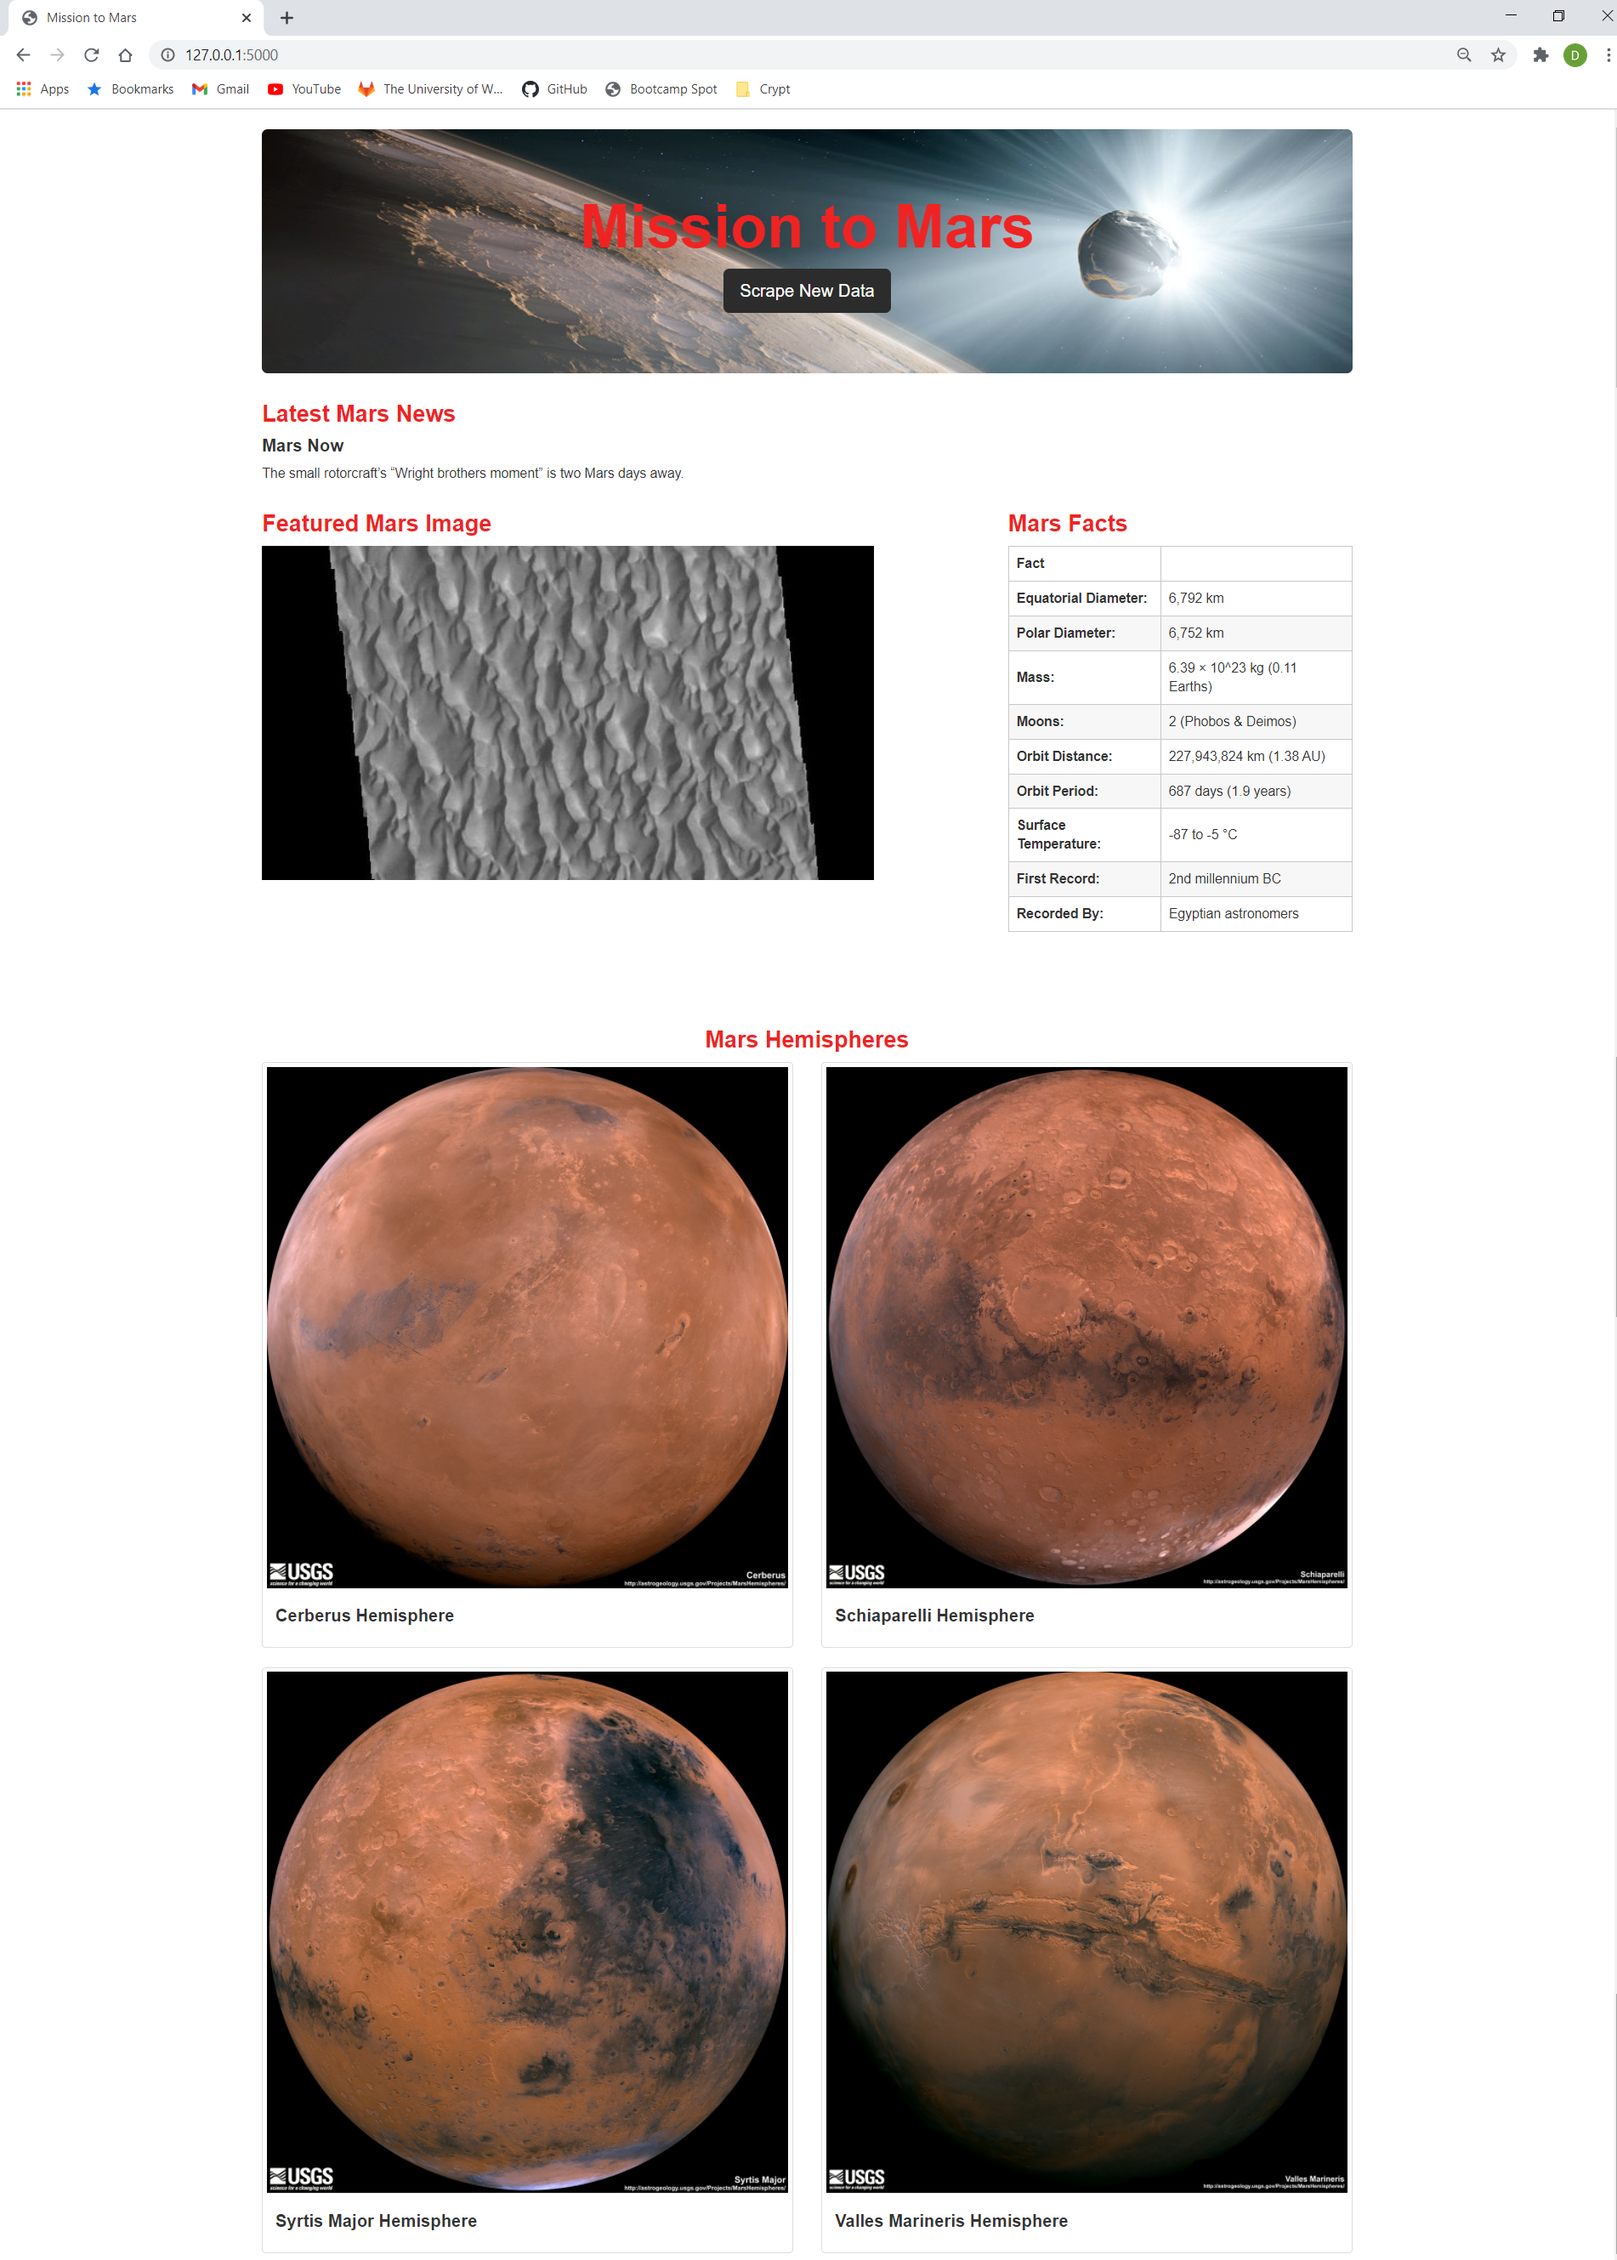
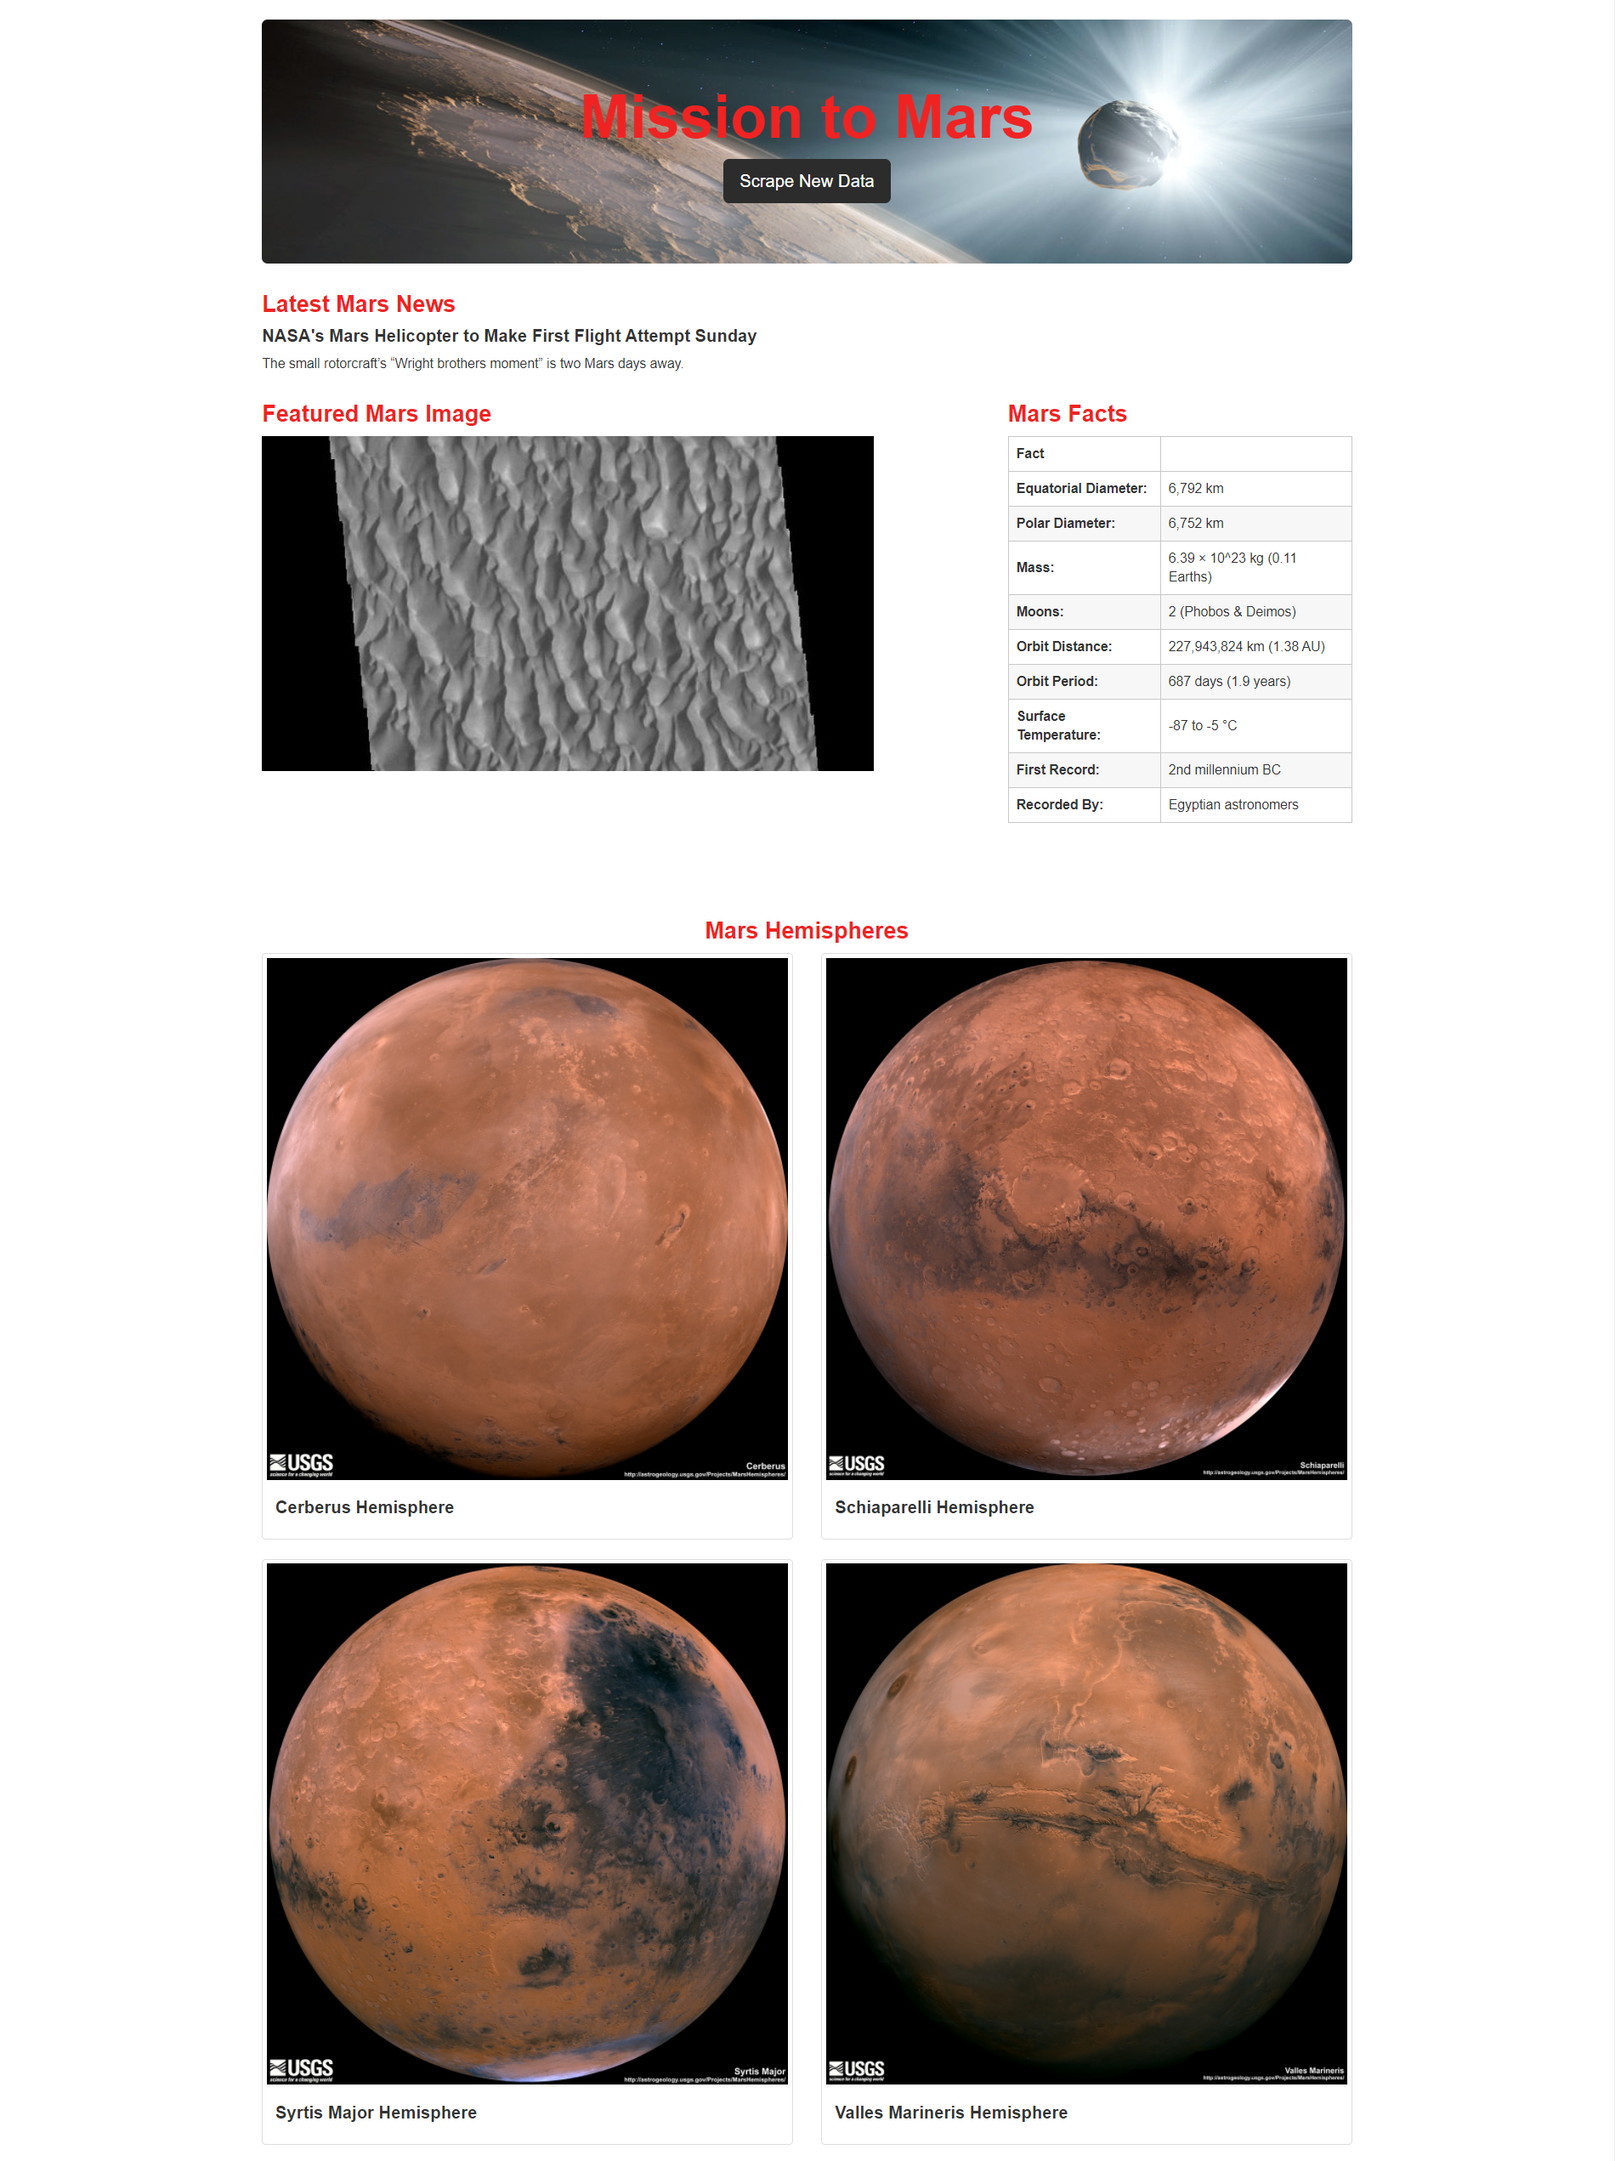
scrape not returning properly

diff --git a/Mission_to_Mars/scrape_mars.py b/Mission_to_Mars/scrape_mars.py
@@ -13,15 +13,12 @@ def scrape():
     mars_news_title, mars_news_paragraph = news(browser)
     
     results = {
-        "title": mars_news_title,
-        "paragraph": mars_news_paragraph,
-        "featured": image(browser),
-        "facts": facts(browser),
-        "hemis": hemis(browser)
-        }
-    browser.quit()
-    print(results)
-
+    "title": mars_news_title,
+    "paragraph": mars_news_paragraph,
+    "featured": image(browser),
+    "facts": facts(browser),
+    "hemis": hemis(browser)
+    }
     return results
 
 def news(browser):
@@ -31,20 +28,11 @@ def news(browser):
     html = browser.html
     news_soup = BeautifulSoup(html, 'html.parser')
 
-    news_results = news_soup.find[0]("div", class_='list_text')
-    for result in news_results:
-        mars_news_title = result.find('div',class_="content_title").text
-        mars_news_paragraph = result.find('div',class_="article_teaser_body").text
+    news_results = news_soup.find('li',class_="slide")
+    for news_result in news_results:
+        mars_news_title = news_result.find('div',class_='content_title').find('a').text
+        mars_news_paragraph = news_result.find('div',class_='article_teaser_body').text
     return mars_news_title, mars_news_paragraph
-
-    # collect the latest News Title and Paragraph Text.
-    # mars_news_title = news_soup.find_all('div',class_="content_title")[1].text
-    # mars_news_paragraph = news_soup.find_all('div',class_="article_teaser_body")[0].text
-    # # mars_news_title = mars_news_title.text
-    # # mars_news_paragraph = mars_news_paragraph.text
-    # print(mars_news_title)
-    # print(mars_news_paragraph)
-    # return mars_news_title, mars_news_paragraph
 
 def image(browser):
     # Scrape the Featured Mars Image
@@ -96,3 +84,7 @@ def hemis(browser):
         # Append the dictionary with the image url string and the hemisphere title to a list. This list will contain one dictionary for each hemisphere.
         hemis_img_urls.append(img_dict)
     return hemis_img_urls
+
+    browser.quit()
+    
+    print(results)
